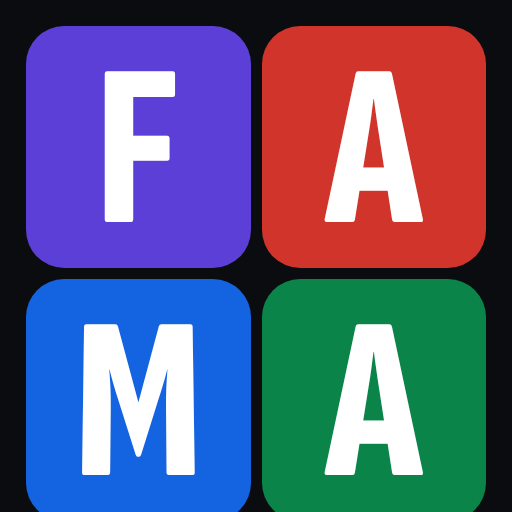
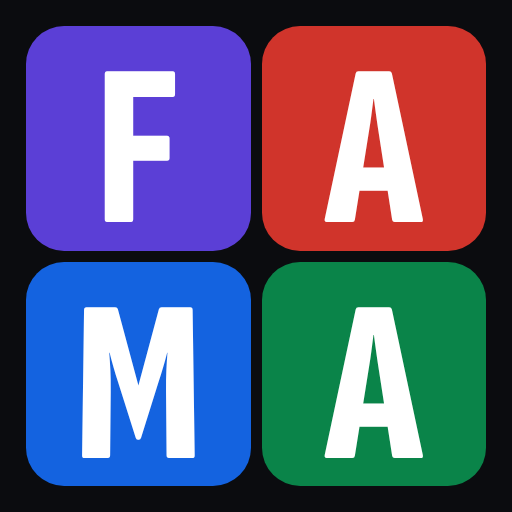
Íconos parejos y grillas de la apertura sin desborde
Claude-Session: https://claude.ai/code/session_015JdEhBttS5nE6sSA8kpKFB

Changed region(s): [[0.0312, 0.5938, 0.9688, 1.0], [0.0312, 0.4375, 0.9688, 0.5938], [0.1562, 0.5938, 0.375, 0.9062]]

diff --git a/src/app/fama.css b/src/app/fama.css
@@ -7,7 +7,7 @@
 .fa-intro{display:none}
 .intro-ve:not(.intro-lista) .fa-intro{display:block;position:fixed;inset:0;z-index:100;overflow:hidden;cursor:pointer;animation:fa-fin 1ms 1.15s forwards}
 .fa-intro::before{content:"";position:absolute;inset:0;background:var(--fa-fondo);animation:fa-apaga 1ms .8s forwards}
-.fa-grilla{position:absolute;inset:0;display:grid;grid-template:1fr 1fr/1fr 1fr}
+.fa-grilla{position:absolute;inset:0;display:grid;grid-template:minmax(0,1fr) minmax(0,1fr)/minmax(0,1fr) minmax(0,1fr)}
 .fa-t{--x:-101%;--y:-101%;display:grid;place-items:center;background:var(--c);color:#fff;font-family:var(--disp);font-weight:800;font-size:min(46vw,32vh);line-height:1;will-change:transform;animation:fa-llega .42s calc(var(--n)*55ms) cubic-bezier(.2,.9,.25,1) both,fa-abre .34s calc(.8s + var(--n)*12ms) cubic-bezier(.6,0,.8,.3) forwards}
 .fa-t:nth-child(even){--x:101%}.fa-t:nth-child(n+3){--y:101%}
 @keyframes fa-llega{from{transform:translate3d(var(--x),var(--y),0)}}
@@ -52,14 +52,14 @@
 
 /* Bienvenida: una letra se prende por paso */
 .fa-bien{justify-content:center}
-.fa-pasos{display:flex;gap:6px}
+.fa-pasos{display:flex;gap:6px;margin-bottom:10px}
 .fa-pasos span{width:44px;height:44px;border-radius:14px;display:grid;place-items:center;font-family:var(--disp);font-weight:800;font-size:28px;color:#9AA2A9;background:#1B1E24;transition:background .3s,color .3s,transform .4s var(--resorte)}
 .fa-pasos span.si{background:var(--c);color:#fff}
 .fa-pasos span.si:last-of-type,.fa-pasos span.si:has(+span:not(.si)){transform:scale(1.08)}
 .fa-tit{font-weight:800;font-size:clamp(34px,10vw,44px);letter-spacing:-.025em;line-height:1.05;text-wrap:balance}
 
 /* Entrada: cierre sobre la app */
-.fa-pase{position:fixed;inset:0;z-index:90;display:grid;grid-template:1fr 1fr/1fr 1fr;overflow:hidden;pointer-events:none}
+.fa-pase{position:fixed;inset:0;z-index:90;display:grid;grid-template:minmax(0,1fr) minmax(0,1fr)/minmax(0,1fr) minmax(0,1fr);overflow:hidden;pointer-events:none}
 .fa-pase span{display:grid;place-items:center;background:var(--c);color:#fff;font-family:var(--disp);font-weight:800;font-size:min(46vw,32vh);line-height:1;will-change:transform}
 
 /* Carga */
